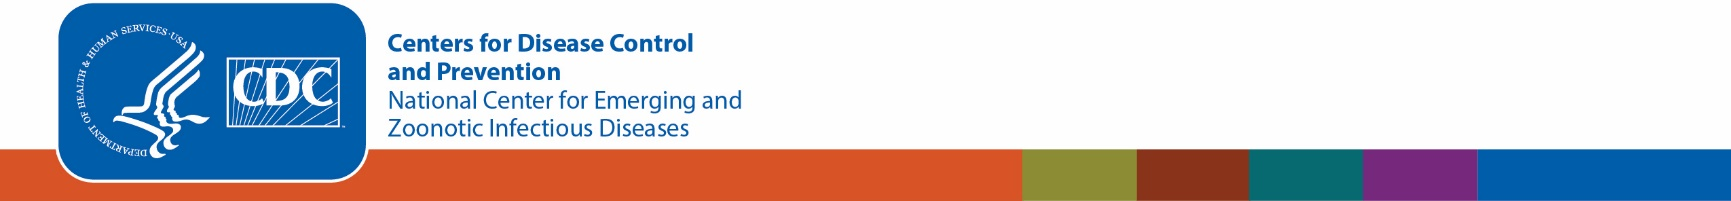
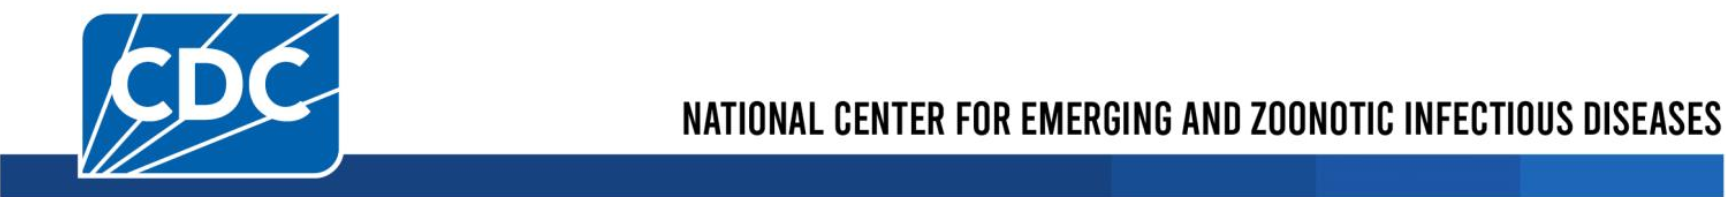
MEASDEV-1592: Updated IG header and footer colors and imagery.

diff --git a/custom-template/content/assets/css/fhir-nhsn.css b/custom-template/content/assets/css/fhir-nhsn.css
@@ -1,15 +1,15 @@
 
 :root {
 
-  --ig-status-text-color: black;/*maroon; /* 1. IG Title and status text color */
-  --navbar-bg-color: #d85326;/*#7b1fad; /* 2. Header container color */
+  --ig-status-text-color: white;/*maroon; /* 1. IG Title and status text color */
+  --navbar-bg-color: #0057b8;/*#7b1fad; /* 2. Header container color */
   --footer-bg-color: #707070; /* 3. Footer background color*/
-  --footer-container-bg-color: #d85326;/*#7b1fad; /* 4. Footer container color */
+  --footer-container-bg-color: #16427f;/*#7b1fad; /* 4. Footer container color */
   --stripe-bg-color: #999999; /* 5. Header strip color */
 
-  --btn-hover-color: #c74c20;/*#9b2fdd;  /* 6. Menu button hover color */
-  --btn-active-color: #b14125;/*#da0c23; /* 7. Menu button active color */
-  --btn-text-color: black;/*#e6e6e6; /* 8. Menu button text color */
+  --btn-hover-color: #00234a;/*#9b2fdd;  /* 6. Menu button hover color */
+  --btn-active-color: #00234a;/*#da0c23; /* 7. Menu button active color */
+  --btn-text-color: white;/*#e6e6e6; /* 8. Menu button text color */
   --btn-gradient-start-color: #428bca; /* 9. Menu item gradient start color */
   --btn-gradient-end-color: #357ebd; /* 10. Menu item gradient end  color */
   --btn-gradient-start-color-alpha: #ff428bca; /* 11. Menu item gradient start color (with alpha) */
